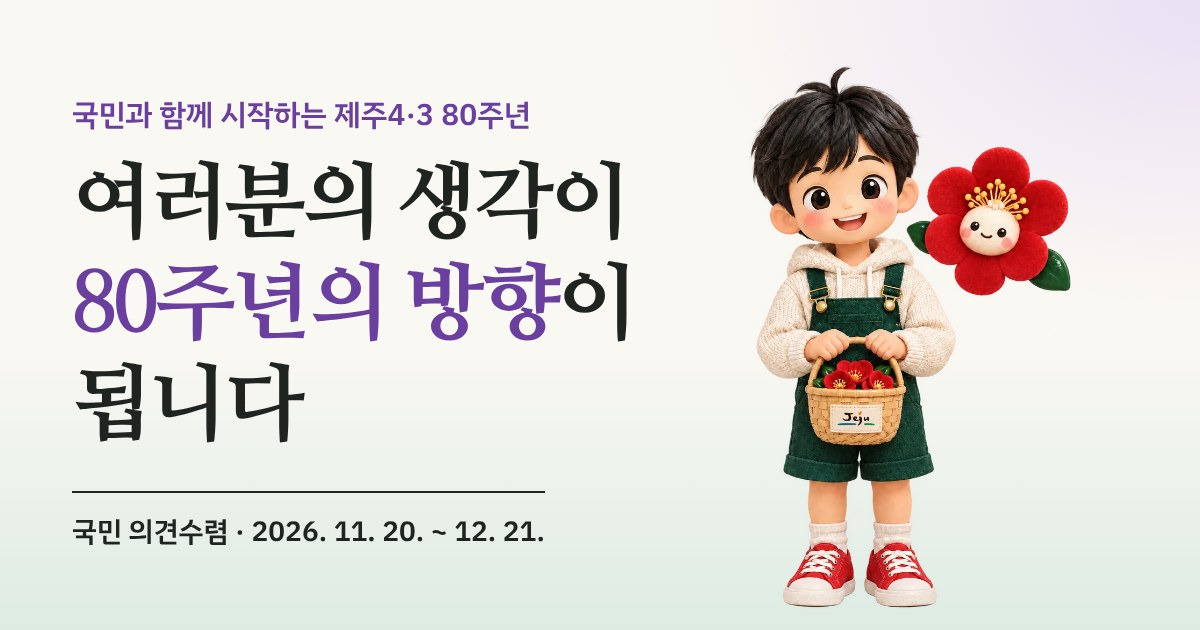
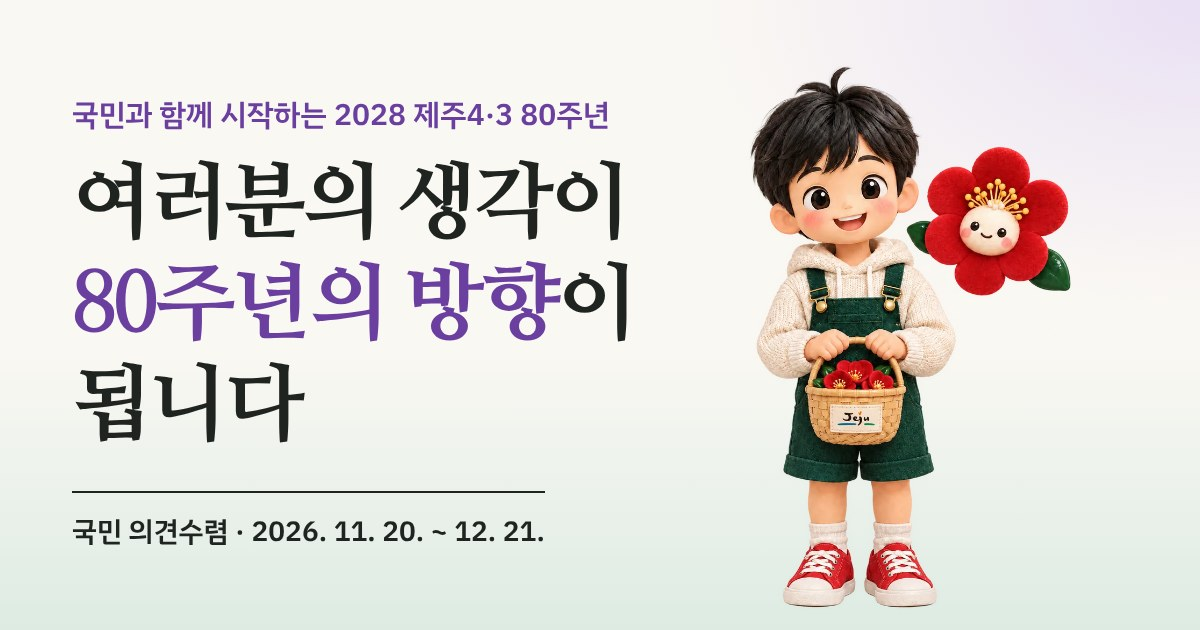
Rename campaign title to include 2028
Claude-Session: https://claude.ai/code/session_01M2cVNcTtpecnMggWA51WdT

Changed region(s): [[0.2775, 0.1508, 0.5242, 0.2111]]

diff --git a/index.html b/index.html
@@ -3,12 +3,12 @@
 <head>
 <meta charset="utf-8">
 <meta name="viewport" content="width=device-width, initial-scale=1, viewport-fit=cover">
-<title>국민과 함께 시작하는 제주4·3 80주년 · 국민 의견수렴</title>
+<title>국민과 함께 시작하는 2028 제주4·3 80주년 · 국민 의견수렴</title>
 <meta name="description" content="2028 제주4·3 80주년, 여러분의 생각이 80주년의 방향이 됩니다. 2026. 11. 20. ~ 12. 21. 국민 의견수렴 설문에 참여해 주세요.">
 <meta name="robots" content="noindex, nofollow">
 <meta name="theme-color" content="#FAF8F3">
 <meta property="og:type" content="website">
-<meta property="og:title" content="국민과 함께 시작하는 제주4·3 80주년">
+<meta property="og:title" content="국민과 함께 시작하는 2028 제주4·3 80주년">
 <meta property="og:description" content="여러분의 생각이 80주년의 방향이 됩니다. 국민 의견수렴 2026. 11. 20. ~ 12. 21.">
 <meta property="og:image" content="img/og.jpg">
 <link rel="icon" type="image/png" href="img/favicon.png">
@@ -299,9 +299,9 @@ textarea:focus,input[type=tel]:focus{border-color:var(--red);outline:0;box-shado
 
 <header class="hd">
   <div class="wrap">
-    <a class="brand" href="#top" aria-label="국민과 함께 시작하는 제주4·3 80주년 처음으로">
+    <a class="brand" href="#top" aria-label="국민과 함께 시작하는 2028 제주4·3 80주년 처음으로">
       <img src="img/flower.webp" width="32" height="32" alt="">
-      <span><b><span class="wide">국민과 함께 시작하는 </span>제주4·3 80주년</b><small>국민 의견수렴</small></span>
+      <span><b><span class="wide">국민과 함께 시작하는 </span>2028 제주4·3 80주년</b><small>국민 의견수렴</small></span>
     </a>
     <nav class="nav" aria-label="주 메뉴">
       <a href="#why">설문취지</a><a href="#learn">제주4·3 알아보기</a><a href="#survey">설문 참여</a><a href="#use">반영 과정</a><a href="#faq">자주 묻는 질문</a>
@@ -326,7 +326,7 @@ textarea:focus,input[type=tel]:focus{border-color:var(--red);outline:0;box-shado
         <p class="status" id="status" data-state="soon"><i aria-hidden="true"></i><span>2026. 11. 20 시작</span></p>
         <p class="kicker">국민 의견수렴</p>
         <h1>여러분의 생각이<br><em>80주년의 방향</em>이<br>됩니다</h1>
-        <p class="sub">국민과 함께 시작하는 제주4·3 80주년</p>
+        <p class="sub">국민과 함께 시작하는 2028 제주4·3 80주년</p>
         <div class="rule" aria-hidden="true"></div>
         <p class="date">2026. 11. 20. ~ 12. 21.</p>
         <p class="who">전 국민 누구나 참여 가능</p>
@@ -492,7 +492,7 @@ textarea:focus,input[type=tel]:focus{border-color:var(--red);outline:0;box-shado
     <span class="ci"><img src="img/jeju_ci.png" width="600" height="78" alt="제주특별자치도"></span>
     <div>
       <p>주관 ｜ 제주특별자치도(4·3지원과)</p>
-      <p>국민과 함께 시작하는 제주4·3 80주년 국민 의견수렴 · 2026. 11. 20. ~ 12. 21.</p>
+      <p>국민과 함께 시작하는 2028 제주4·3 80주년 국민 의견수렴 · 2026. 11. 20. ~ 12. 21.</p>
     </div>
   </div>
 </footer>
@@ -656,7 +656,7 @@ textarea:focus,input[type=tel]:focus{border-color:var(--red);outline:0;box-shado
   $('#again').onclick=()=>{ans=Array(N).fill(null); text=''; phone=''; step=0; sent=false; form.hidden=false; $('#done').hidden=true; $('#shareMsg').textContent=''; render(true);};
 
   $('#share').onclick=async()=>{
-    const data={title:'국민과 함께 시작하는 제주4·3 80주년',text:'2028 제주4·3 80주년, 여러분의 생각이 80주년의 방향이 됩니다.',url:location.href.split('#')[0]};
+    const data={title:'국민과 함께 시작하는 2028 제주4·3 80주년',text:'2028 제주4·3 80주년, 여러분의 생각이 80주년의 방향이 됩니다.',url:location.href.split('#')[0]};
     try{ if(navigator.share){await navigator.share(data); return;} await navigator.clipboard.writeText(data.url); $('#shareMsg').textContent='주소를 복사했습니다. 카카오톡이나 문자에 붙여 넣어 주세요.'; }
     catch(e){ if(e&&e.name==='AbortError') return; $('#shareMsg').textContent='주소창의 주소를 복사해 알려 주세요.'; }
   };
